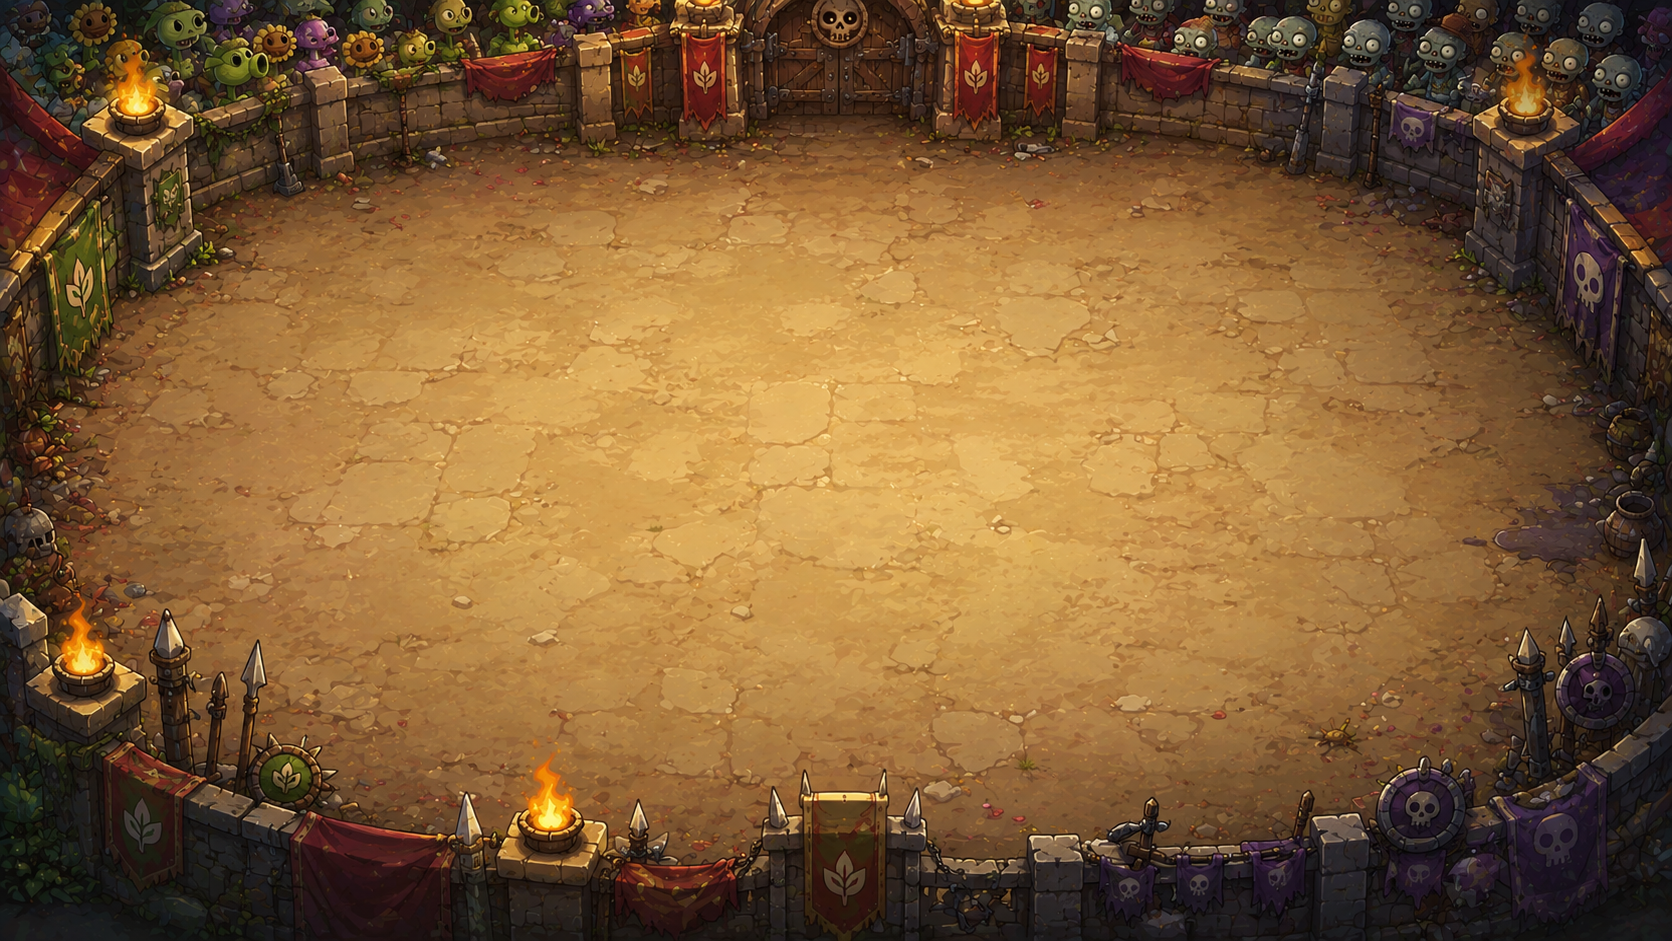
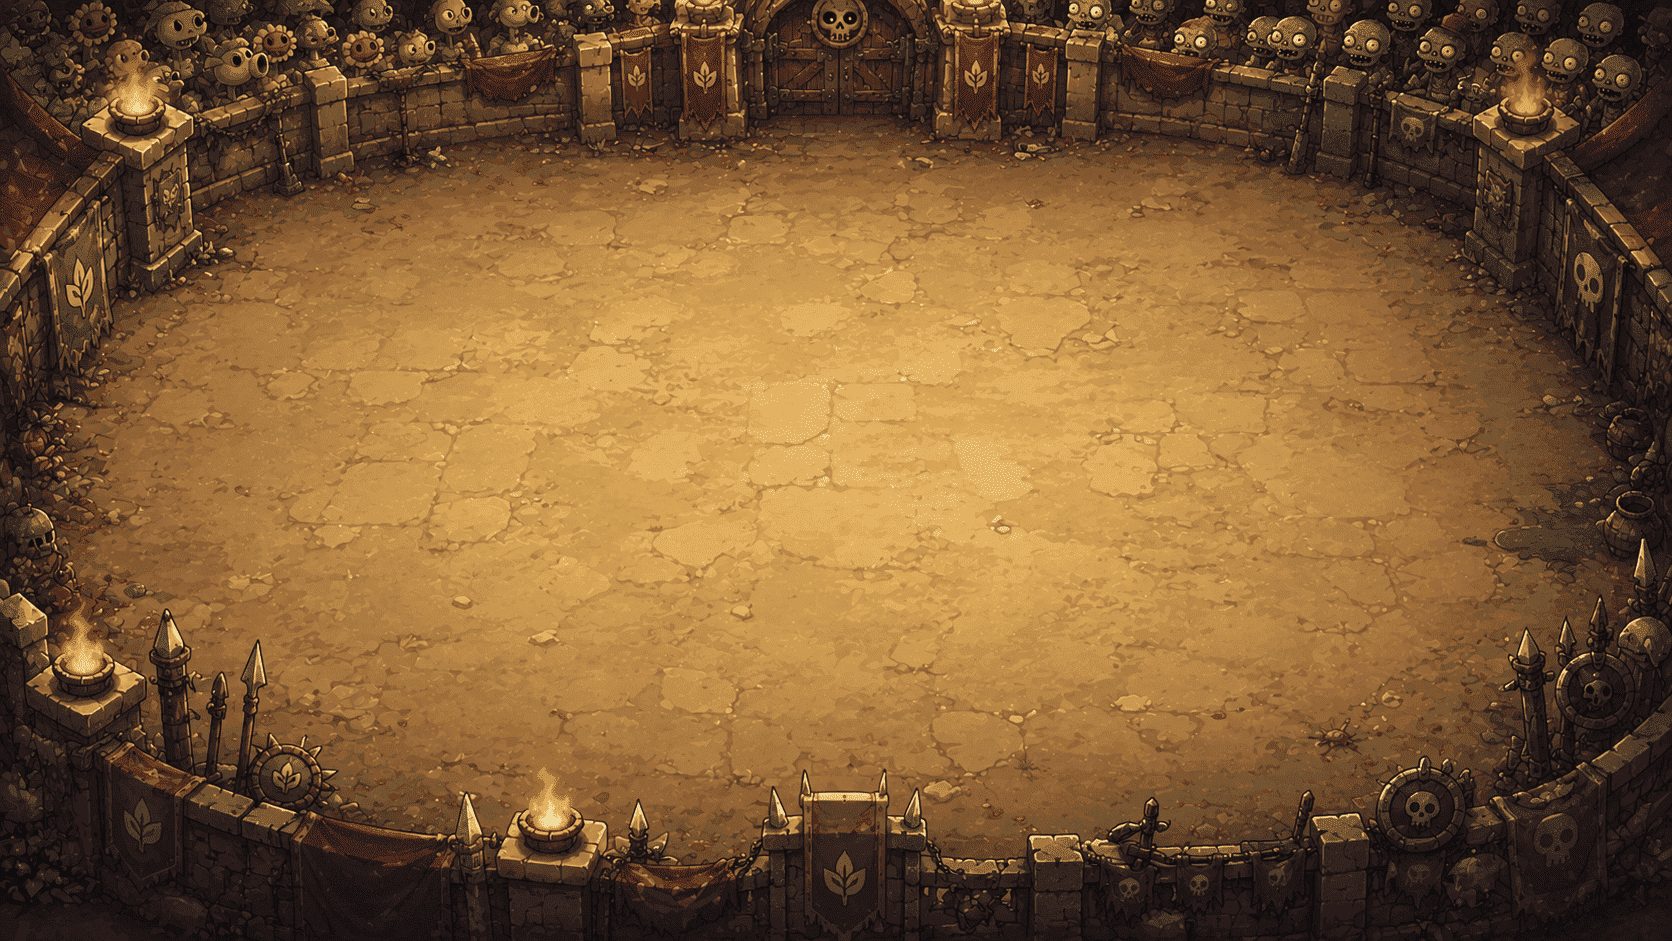
Se ha solucionado el error anterior, pues el problema era que estaba intentando cargar una imágen cuya ruta de acceso ya sido eliminada.
Además, debido al largo tiempo que permanece el juego en la pantalla de carga (más de 30 segundos), se ha comprimido lo máximo posible las imágenes .png (la librería ETSIDI, he estado mirando y no permite .jpg q ocupan menos espacio) y se ha reducido el tiempo de espera unos 20 segundos, pero es que ya no se puede hacer mucho más

diff --git a/src/gestorTexturas.cpp b/src/gestorTexturas.cpp
@@ -1,6 +1,7 @@
 #include "gestorTexturas.h"
 #include "ETSIDI.h"
 #include "freeglut.h"
+#include <stdio.h>
 
 void precargarTexturas() {
 	glClear(GL_COLOR_BUFFER_BIT);
@@ -9,9 +10,9 @@ void precargarTexturas() {
 	ETSIDI::printxy("Cargando...", -0.5f, 0.0f);
 	glutSwapBuffers();
 
-	ETSIDI::getTexture("imagenes/fondo_menu_inicio.png");
+	ETSIDI::GLTexture t = ETSIDI::getTexture("imagenes/fondo_menu_inicio.png");
+	printf("Dimensiones: %d x %d\n", t.width, t.height);
 	ETSIDI::getTexture("imagenes/fondo_pausa.png");
-	ETSIDI::getTexture("imagenes/fondo_archon.png");
 
 	ETSIDI::getTexture("imagenes/fondo_arena1.png");
 	ETSIDI::getTexture("imagenes/fondo_arena2.png");
